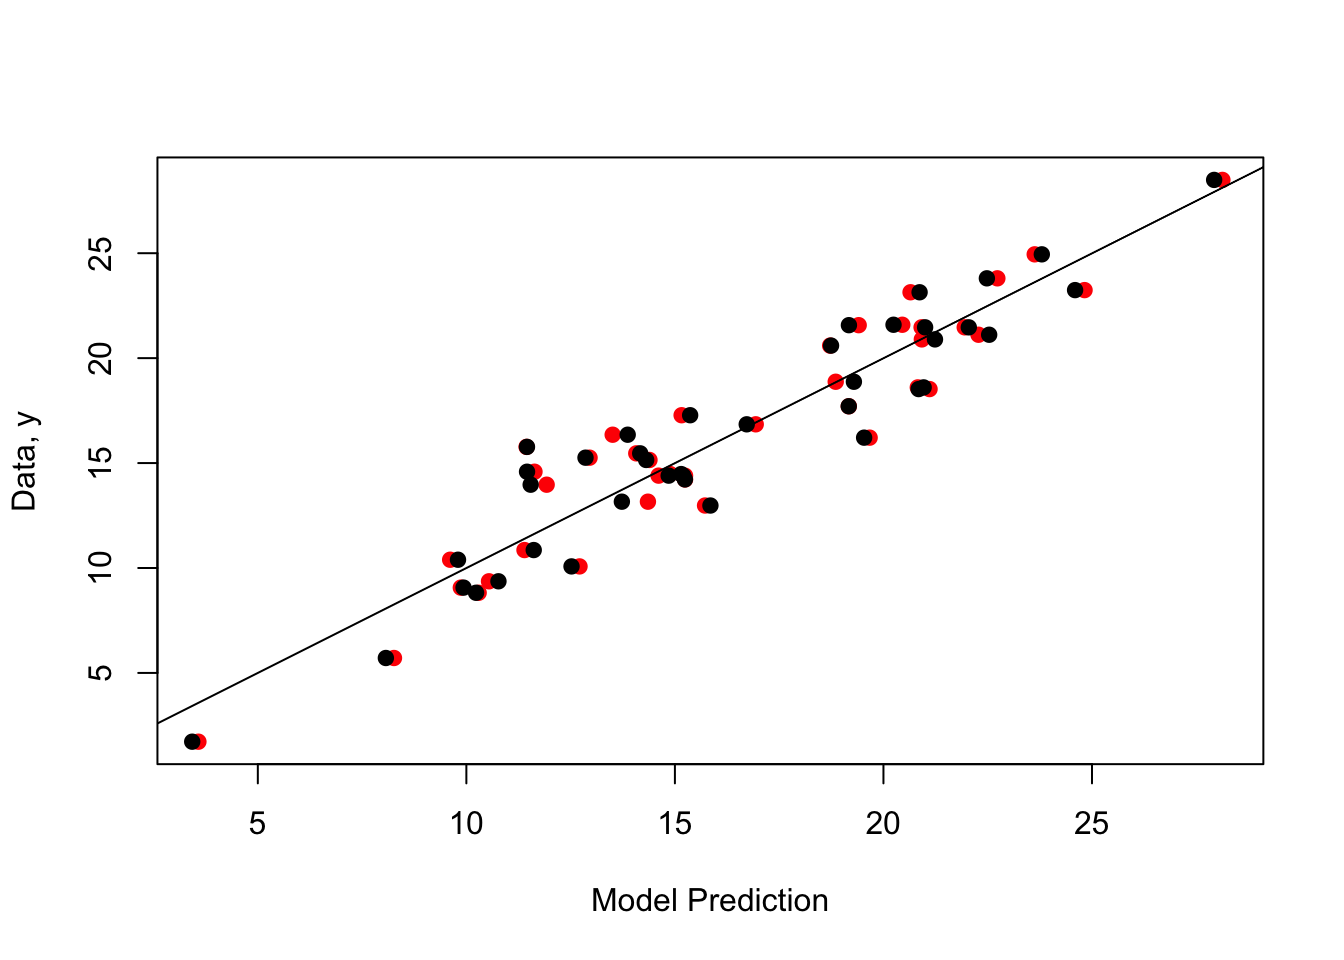
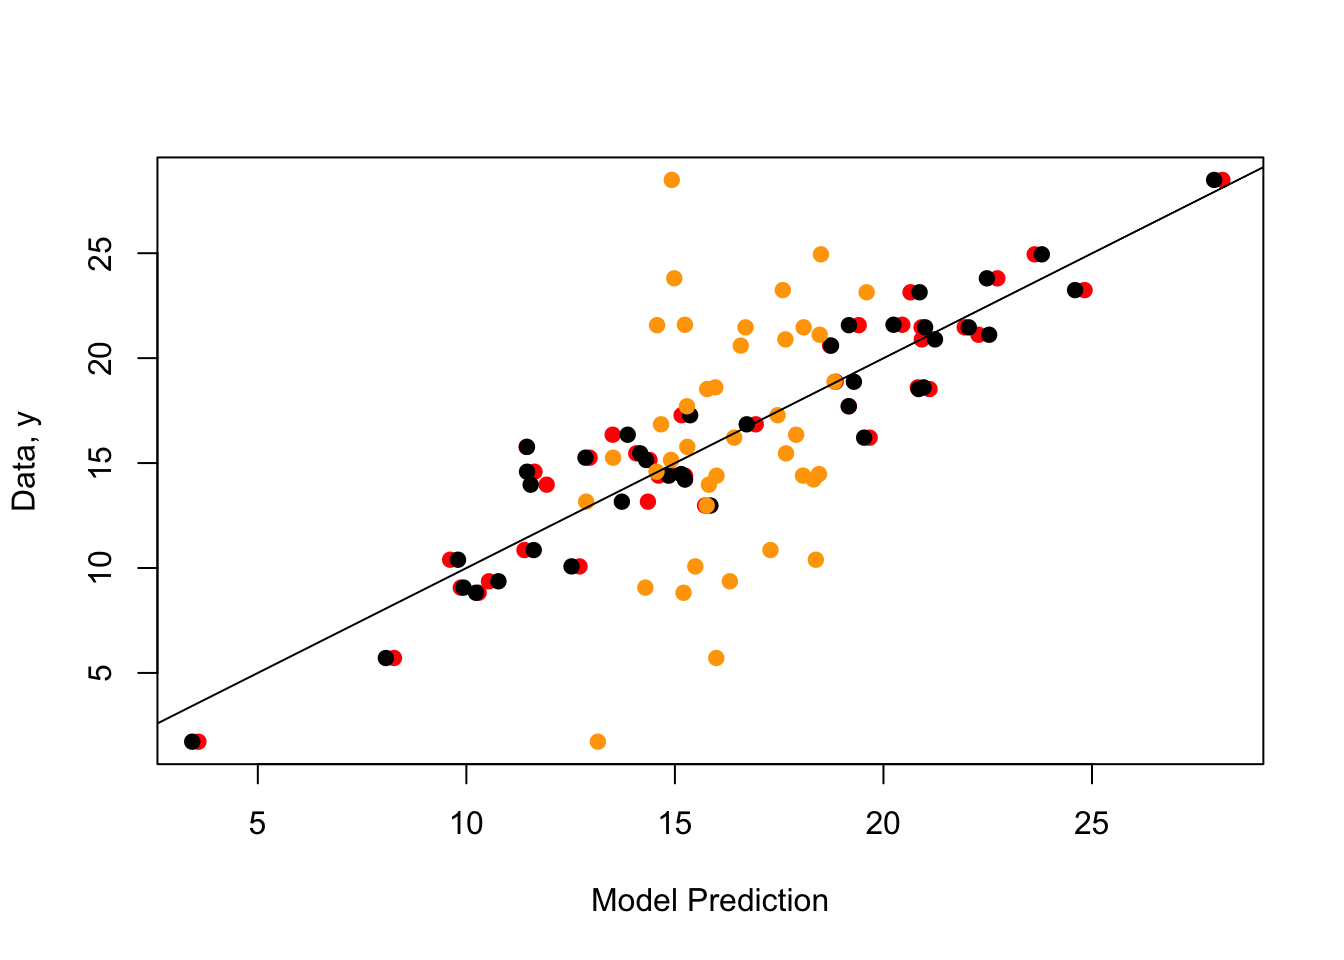
add 'bad' model to last plot

diff --git a/docs/model-select.html b/docs/model-select.html
@@ -1031,17 +1031,19 @@ Signif. codes:  0 '***' 0.001 '**' 0.01 '*' 0.05 '.' 0.1 ' ' 1</code></pre>
 <div class="cell">
 <div class="sourceCode cell-code" id="cb79"><pre class="sourceCode r code-with-copy"><code class="sourceCode r"><span id="cb79-1"><a href="#cb79-1" aria-hidden="true" tabindex="-1"></a>raw_predict_avg <span class="ot">=</span> <span class="fu">predict</span>(m1_average)</span>
 <span id="cb79-2"><a href="#cb79-2" aria-hidden="true" tabindex="-1"></a>raw_predict_nonavg <span class="ot">=</span> <span class="fu">predict</span>(m1)</span>
-<span id="cb79-3"><a href="#cb79-3" aria-hidden="true" tabindex="-1"></a></span>
-<span id="cb79-4"><a href="#cb79-4" aria-hidden="true" tabindex="-1"></a><span class="fu">plot</span>(my_df<span class="sc">$</span>y <span class="sc">~</span> raw_predict_avg,</span>
-<span id="cb79-5"><a href="#cb79-5" aria-hidden="true" tabindex="-1"></a>     <span class="at">xlab =</span> <span class="st">"Model Prediction"</span>, <span class="at">ylab =</span> <span class="st">"Data, y"</span>, <span class="at">pch =</span> <span class="dv">19</span>, <span class="at">col =</span> <span class="st">"red"</span>)</span>
-<span id="cb79-6"><a href="#cb79-6" aria-hidden="true" tabindex="-1"></a><span class="fu">points</span>(my_df<span class="sc">$</span>y <span class="sc">~</span> raw_predict_nonavg, <span class="at">pch =</span> <span class="dv">19</span>, <span class="at">col =</span> <span class="st">"black"</span>)</span>
-<span id="cb79-7"><a href="#cb79-7" aria-hidden="true" tabindex="-1"></a><span class="co"># 1-to-1 line</span></span>
-<span id="cb79-8"><a href="#cb79-8" aria-hidden="true" tabindex="-1"></a><span class="fu">abline</span>(<span class="at">a =</span> <span class="dv">0</span>, <span class="at">b =</span> <span class="dv">1</span>)</span></code><button title="Copy to Clipboard" class="code-copy-button"><i class="bi"></i></button></pre></div>
+<span id="cb79-3"><a href="#cb79-3" aria-hidden="true" tabindex="-1"></a>raw_predict_bad <span class="ot">=</span> <span class="fu">predict</span>(sub_m2)</span>
+<span id="cb79-4"><a href="#cb79-4" aria-hidden="true" tabindex="-1"></a></span>
+<span id="cb79-5"><a href="#cb79-5" aria-hidden="true" tabindex="-1"></a><span class="fu">plot</span>(my_df<span class="sc">$</span>y <span class="sc">~</span> raw_predict_avg,</span>
+<span id="cb79-6"><a href="#cb79-6" aria-hidden="true" tabindex="-1"></a>     <span class="at">xlab =</span> <span class="st">"Model Prediction"</span>, <span class="at">ylab =</span> <span class="st">"Data, y"</span>, <span class="at">pch =</span> <span class="dv">19</span>, <span class="at">col =</span> <span class="st">"red"</span>)</span>
+<span id="cb79-7"><a href="#cb79-7" aria-hidden="true" tabindex="-1"></a><span class="fu">points</span>(my_df<span class="sc">$</span>y <span class="sc">~</span> raw_predict_nonavg, <span class="at">pch =</span> <span class="dv">19</span>, <span class="at">col =</span> <span class="st">"black"</span>)</span>
+<span id="cb79-8"><a href="#cb79-8" aria-hidden="true" tabindex="-1"></a><span class="fu">points</span>(my_df<span class="sc">$</span>y <span class="sc">~</span> raw_predict_bad, <span class="at">pch =</span> <span class="dv">19</span>, <span class="at">col =</span> <span class="st">"orange"</span>)</span>
+<span id="cb79-9"><a href="#cb79-9" aria-hidden="true" tabindex="-1"></a><span class="co"># 1-to-1 line</span></span>
+<span id="cb79-10"><a href="#cb79-10" aria-hidden="true" tabindex="-1"></a><span class="fu">abline</span>(<span class="at">a =</span> <span class="dv">0</span>, <span class="at">b =</span> <span class="dv">1</span>)</span></code><button title="Copy to Clipboard" class="code-copy-button"><i class="bi"></i></button></pre></div>
 <div class="cell-output-display">
 <p><img src="model-select_files/figure-html/unnamed-chunk-19-1.png" class="img-fluid" width="672"></p>
 </div>
 </div>
-<p>It is hard to see, and likely not significant in this case, but the red points (model-averaged) tend to be closer to the 1:1 line, meaning the averaged model makes slightly better predictions of the observed data.</p>
+<p>It is hard to see, and likely not significant in this case, but the red points (model-averaged) tend to be closer to the 1:1 line, compared to the black points, meaning the averaged model makes slightly better predictions of the observed data. What is more clear, is that the “bad” model (which only included covariate <span class="math inline">\(x_1\)</span>), does not match the 1:1 line at all; it’s more of a shot-gun of points. Therefore, this clearly indicates the model is not predictive of the <span class="math inline">\(y\)</span> data. This is a good visualization of how well your models’ within-sample prediction (i.e., how close the model predictions of observed data match the observed data).</p>
 
 
 <!-- -->
@@ -1665,15 +1667,17 @@ window.document.addEventListener("DOMContentLoaded", function (event) {
 <span id="cb80-455"><a href="#cb80-455" aria-hidden="true" tabindex="-1"></a><span class="in">```{r}</span></span>
 <span id="cb80-456"><a href="#cb80-456" aria-hidden="true" tabindex="-1"></a>raw_predict_avg <span class="ot">=</span> <span class="fu">predict</span>(m1_average)</span>
 <span id="cb80-457"><a href="#cb80-457" aria-hidden="true" tabindex="-1"></a>raw_predict_nonavg <span class="ot">=</span> <span class="fu">predict</span>(m1)</span>
-<span id="cb80-458"><a href="#cb80-458" aria-hidden="true" tabindex="-1"></a></span>
-<span id="cb80-459"><a href="#cb80-459" aria-hidden="true" tabindex="-1"></a><span class="fu">plot</span>(my_df<span class="sc">$</span>y <span class="sc">~</span> raw_predict_avg,</span>
-<span id="cb80-460"><a href="#cb80-460" aria-hidden="true" tabindex="-1"></a>     <span class="at">xlab =</span> <span class="st">"Model Prediction"</span>, <span class="at">ylab =</span> <span class="st">"Data, y"</span>, <span class="at">pch =</span> <span class="dv">19</span>, <span class="at">col =</span> <span class="st">"red"</span>)</span>
-<span id="cb80-461"><a href="#cb80-461" aria-hidden="true" tabindex="-1"></a><span class="fu">points</span>(my_df<span class="sc">$</span>y <span class="sc">~</span> raw_predict_nonavg, <span class="at">pch =</span> <span class="dv">19</span>, <span class="at">col =</span> <span class="st">"black"</span>)</span>
-<span id="cb80-462"><a href="#cb80-462" aria-hidden="true" tabindex="-1"></a><span class="co"># 1-to-1 line</span></span>
-<span id="cb80-463"><a href="#cb80-463" aria-hidden="true" tabindex="-1"></a><span class="fu">abline</span>(<span class="at">a =</span> <span class="dv">0</span>, <span class="at">b =</span> <span class="dv">1</span>)</span>
-<span id="cb80-464"><a href="#cb80-464" aria-hidden="true" tabindex="-1"></a><span class="in">```</span></span>
-<span id="cb80-465"><a href="#cb80-465" aria-hidden="true" tabindex="-1"></a></span>
-<span id="cb80-466"><a href="#cb80-466" aria-hidden="true" tabindex="-1"></a>It is hard to see, and likely not significant in this case, but the red points (model-averaged) tend to be closer to the 1:1 line, meaning the averaged model makes slightly better predictions of the observed data. </span>
+<span id="cb80-458"><a href="#cb80-458" aria-hidden="true" tabindex="-1"></a>raw_predict_bad <span class="ot">=</span> <span class="fu">predict</span>(sub_m2)</span>
+<span id="cb80-459"><a href="#cb80-459" aria-hidden="true" tabindex="-1"></a></span>
+<span id="cb80-460"><a href="#cb80-460" aria-hidden="true" tabindex="-1"></a><span class="fu">plot</span>(my_df<span class="sc">$</span>y <span class="sc">~</span> raw_predict_avg,</span>
+<span id="cb80-461"><a href="#cb80-461" aria-hidden="true" tabindex="-1"></a>     <span class="at">xlab =</span> <span class="st">"Model Prediction"</span>, <span class="at">ylab =</span> <span class="st">"Data, y"</span>, <span class="at">pch =</span> <span class="dv">19</span>, <span class="at">col =</span> <span class="st">"red"</span>)</span>
+<span id="cb80-462"><a href="#cb80-462" aria-hidden="true" tabindex="-1"></a><span class="fu">points</span>(my_df<span class="sc">$</span>y <span class="sc">~</span> raw_predict_nonavg, <span class="at">pch =</span> <span class="dv">19</span>, <span class="at">col =</span> <span class="st">"black"</span>)</span>
+<span id="cb80-463"><a href="#cb80-463" aria-hidden="true" tabindex="-1"></a><span class="fu">points</span>(my_df<span class="sc">$</span>y <span class="sc">~</span> raw_predict_bad, <span class="at">pch =</span> <span class="dv">19</span>, <span class="at">col =</span> <span class="st">"orange"</span>)</span>
+<span id="cb80-464"><a href="#cb80-464" aria-hidden="true" tabindex="-1"></a><span class="co"># 1-to-1 line</span></span>
+<span id="cb80-465"><a href="#cb80-465" aria-hidden="true" tabindex="-1"></a><span class="fu">abline</span>(<span class="at">a =</span> <span class="dv">0</span>, <span class="at">b =</span> <span class="dv">1</span>)</span>
+<span id="cb80-466"><a href="#cb80-466" aria-hidden="true" tabindex="-1"></a><span class="in">```</span></span>
+<span id="cb80-467"><a href="#cb80-467" aria-hidden="true" tabindex="-1"></a></span>
+<span id="cb80-468"><a href="#cb80-468" aria-hidden="true" tabindex="-1"></a>It is hard to see, and likely not significant in this case, but the red points (model-averaged) tend to be closer to the 1:1 line, compared to the black points, meaning the averaged model makes slightly better predictions of the observed data. What is more clear, is that the "bad" model (which only included covariate $x_1$), does not match the 1:1 line at all; it's more of a shot-gun of points. Therefore, this clearly indicates the model is not predictive of the $y$ data. This is a good visualization of how well your models' within-sample prediction (i.e., how close the model predictions of observed data match the observed data).</span>
 </code><button title="Copy to Clipboard" class="code-copy-button"><i class="bi"></i></button></pre></div>
 </div></div></div></div></div>
 </div> <!-- /content -->
